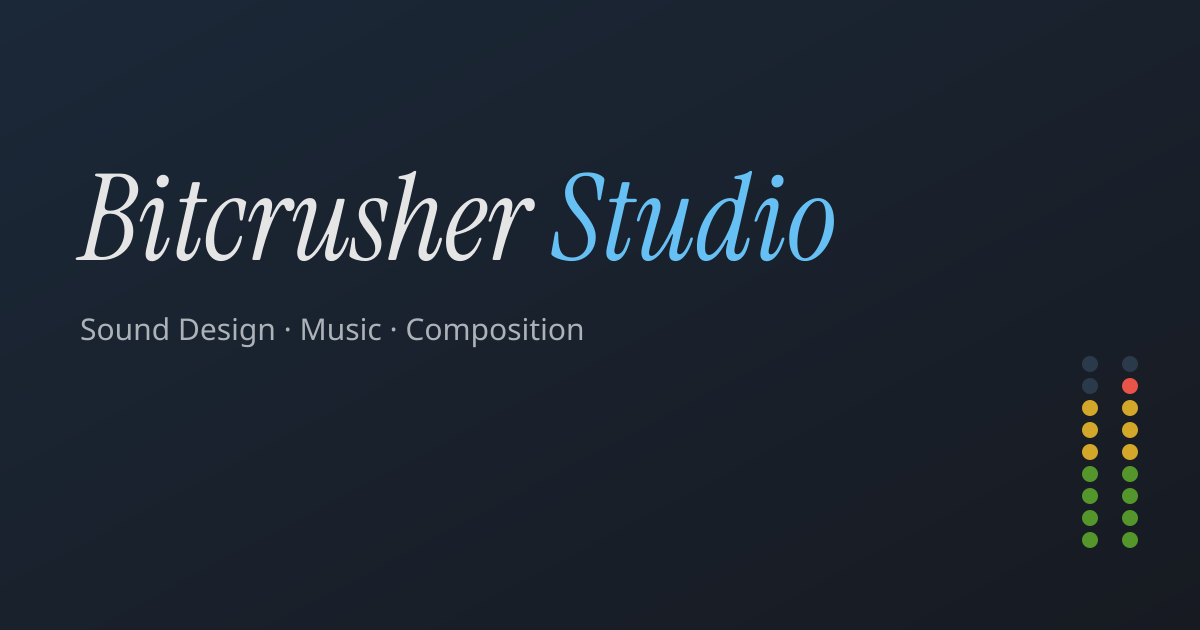
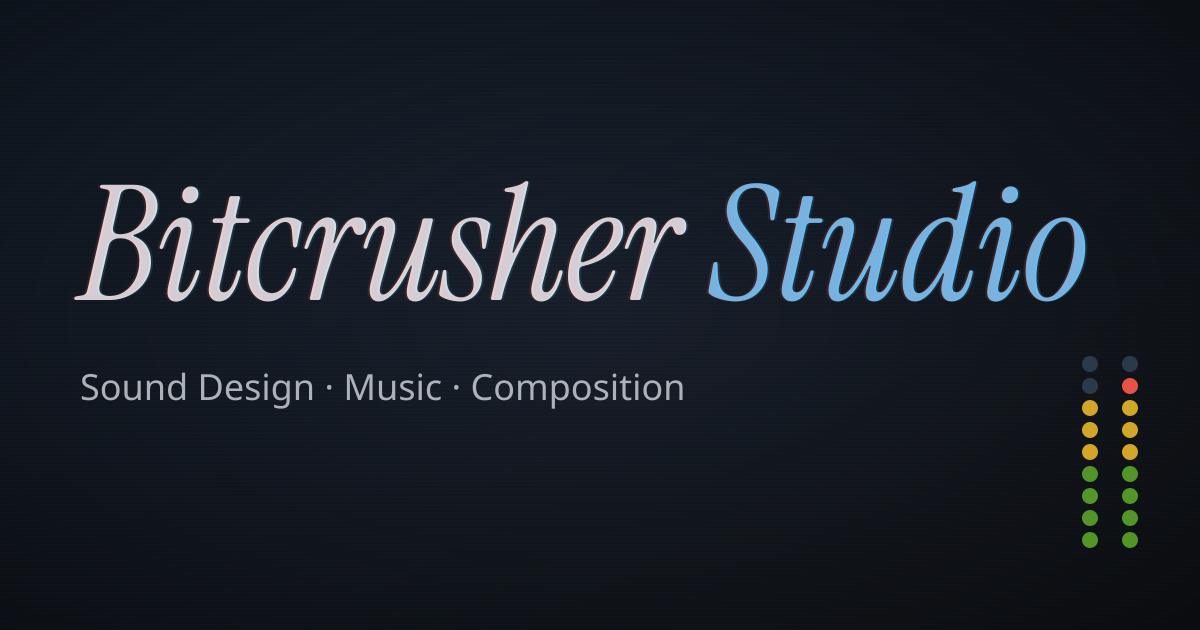
🎨 feat: OG image bigger text + scanlines + vignette + chromatic aberration

diff --git a/scripts/generate-og-images.ts b/scripts/generate-og-images.ts
@@ -58,11 +58,31 @@ const template = (title: string, subtitle: string): string => `
   </defs>
   <rect width="1200" height="630" fill="url(#g)"/>
 
-  <!-- Brand (hero style) -->
-  <text x="80" y="260" font-family="Instrument Serif, Georgia, serif" font-style="italic" font-size="120" font-weight="400" fill="#e5e5e5">Bitcrusher <tspan fill="#66c0f4">Studio</tspan></text>
+  <!-- Scanlines overlay -->
+  <defs>
+    <pattern id="scanlines" width="4" height="4" patternUnits="userSpaceOnUse">
+      <rect width="4" height="2" fill="transparent"/>
+      <rect y="2" width="4" height="2" fill="rgba(0,0,0,0.08)"/>
+    </pattern>
+  </defs>
+  <rect width="1200" height="630" fill="url(#scanlines)"/>
+
+  <!-- Vignette -->
+  <radialGradient id="vig" cx="50%" cy="50%" r="70%">
+    <stop offset="0%" stop-color="transparent"/>
+    <stop offset="100%" stop-color="rgba(0,0,0,0.5)"/>
+  </radialGradient>
+  <rect width="1200" height="630" fill="url(#vig)"/>
+
+  <!-- Brand (hero style, bigger) -->
+  <text x="80" y="300" font-family="Instrument Serif, Georgia, serif" font-style="italic" font-size="160" font-weight="400" fill="#e5e5e5">Bitcrusher <tspan fill="#66c0f4">Studio</tspan></text>
+
+  <!-- Chromatic aberration on brand -->
+  <text x="78" y="300" font-family="Instrument Serif, Georgia, serif" font-style="italic" font-size="160" font-weight="400" fill="rgba(255,90,74,0.15)">Bitcrusher <tspan fill="rgba(255,90,74,0.15)">Studio</tspan></text>
+  <text x="82" y="300" font-family="Instrument Serif, Georgia, serif" font-style="italic" font-size="160" font-weight="400" fill="rgba(102,192,244,0.15)">Bitcrusher <tspan fill="rgba(102,192,244,0.15)">Studio</tspan></text>
 
   <!-- Tagline -->
-  <text x="80" y="340" font-family="Inter, sans-serif" font-size="30" fill="#acb2b8">${xmlEscape(subtitle.slice(0, 70))}</text>
+  <text x="80" y="400" font-family="Inter, sans-serif" font-size="36" fill="#acb2b8">${xmlEscape(subtitle.slice(0, 70))}</text>
 
   <!-- VU meter decoration (right side) -->
   <g>
